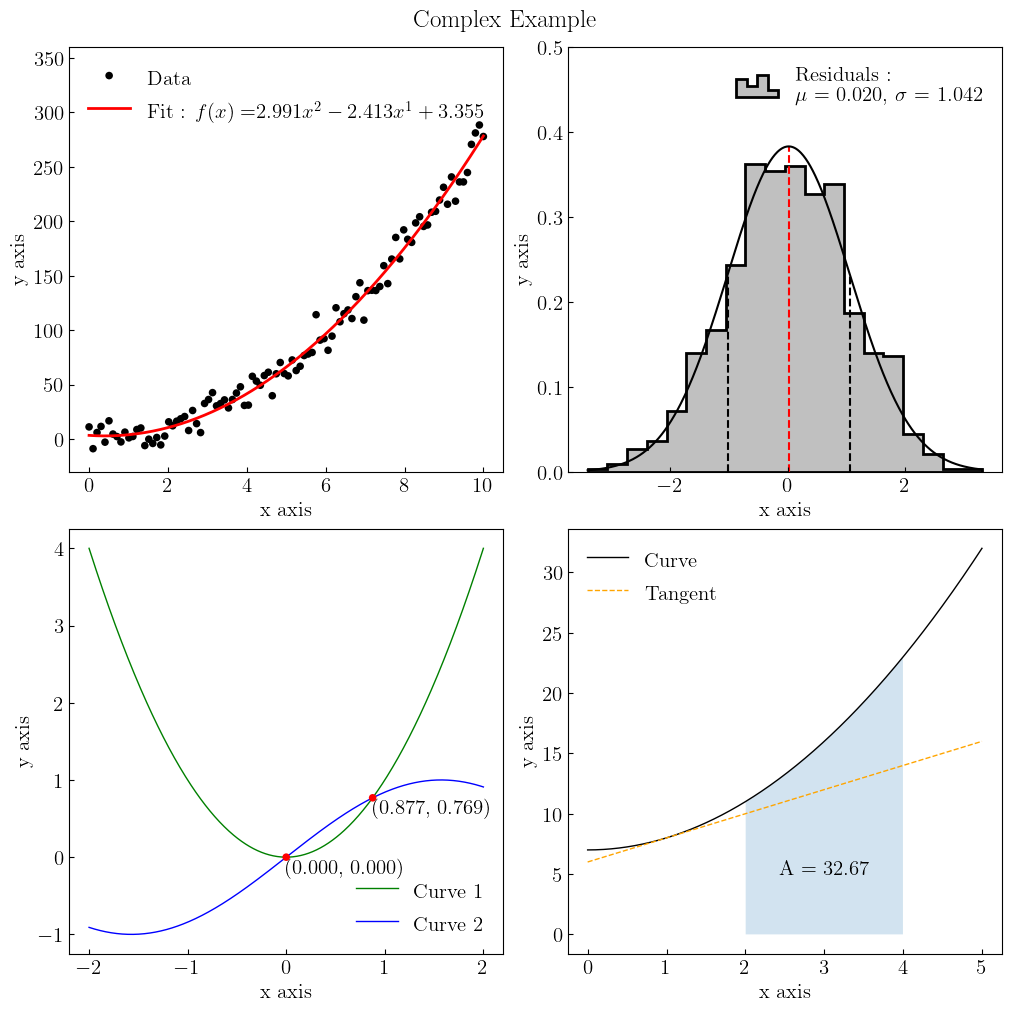
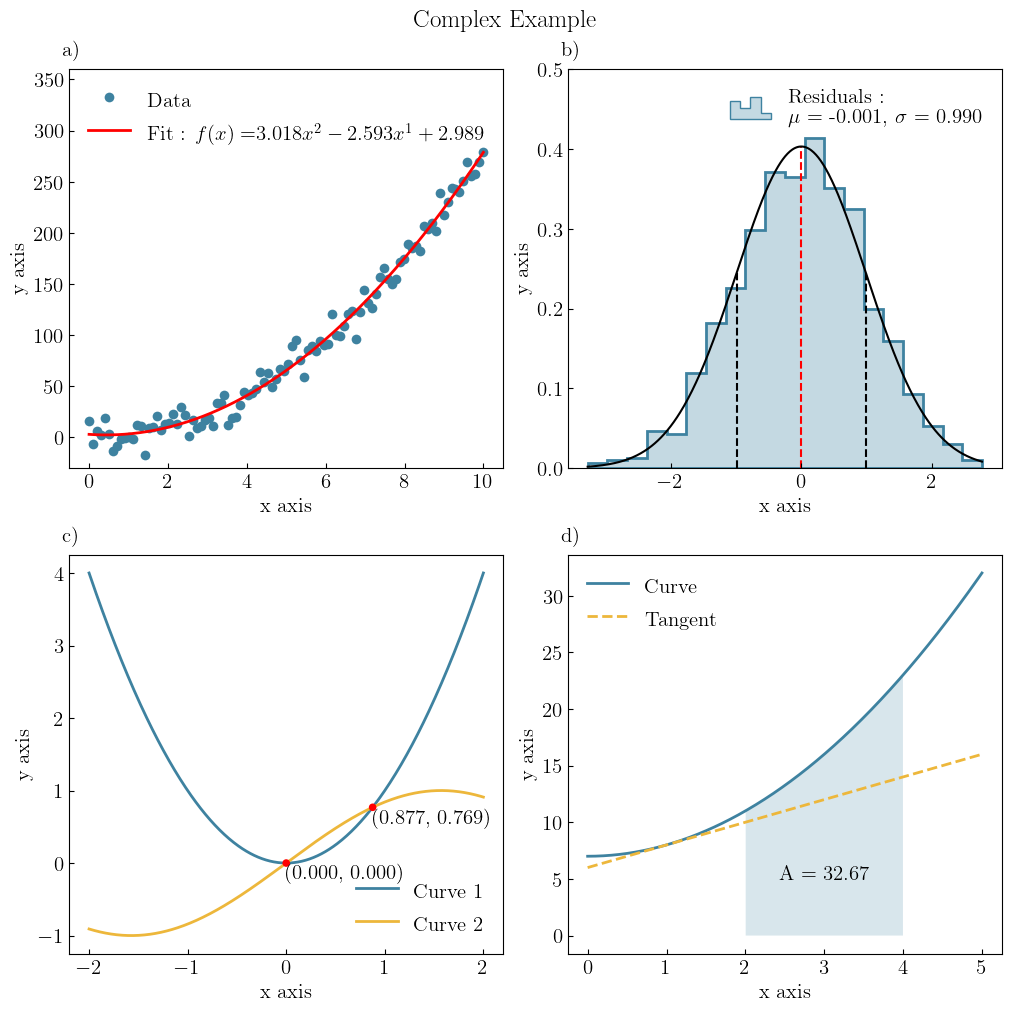
Changed figure style of documentation home page

diff --git a/docs/index.rst b/docs/index.rst
@@ -79,7 +79,7 @@ For most data science applications, GraphingLib can provide a much more concise 
     scatter = gl.Scatter(x_data, y_data, label="Data")
     fit = gl.FitFromPolynomial(scatter, degree=2, label="Fit", color="red")
 
-    fig1 = canvas.add_SubFigure((0, 0, 1, 1), y_lim=(-30, 360))
+    fig1 = canvas.add_SubFigure(0, 0, 1, 1, y_lim=(-30, 360))
     fig1.add_element(scatter, fit)
 
     # Figure 2 - Histogram of random data
@@ -87,17 +87,13 @@ For most data science applications, GraphingLib can provide a much more concise 
     data = np.random.normal(0, 1, 1000)
     hist = gl.Histogram(data, number_of_bins=20, label="Residuals", show_pdf="normal")
 
-    fig2 = canvas.add_SubFigure((0, 1, 1, 1), y_lim=(0, 0.5))
+    fig2 = canvas.add_SubFigure(0, 1, 1, 1, y_lim=(0, 0.5))
     fig2.add_element(hist)
 
     # Figure 3 - Intersection of two curves
 
-    curve1 = gl.Curve.from_function(
-        lambda x: x**2, x_min=-2, x_max=2, label="Curve 1", color="green"
-    )
-    curve2 = gl.Curve.from_function(
-        lambda x: np.sin(x), x_min=-2, x_max=2, label="Curve 2", color="blue"
-    )
+    curve1 = gl.Curve.from_function(lambda x: x**2, x_min=-2, x_max=2, label="Curve 1")
+    curve2 = gl.Curve.from_function(lambda x: np.sin(x), x_min=-2, x_max=2, label="Curve 2")
     intersection_points = curve1.intersection(curve2, colors="red")
 
     for point in intersection_points:
@@ -105,21 +101,21 @@ For most data science applications, GraphingLib can provide a much more concise 
         point.h_align = "left"
         point.v_align = "top"
 
-    fig3 = canvas.add_SubFigure((1, 0, 1, 1))
+    fig3 = canvas.add_SubFigure(1, 0, 1, 1)
     fig3.add_element(curve1, curve2, *intersection_points)
 
     # Figure 4 - Integral of a curve between two points and tangent line
 
     curve = gl.Curve.from_function(lambda x: x**2 + 7, x_min=0, x_max=5, label="Curve")
     area = curve.area_between(2, 4, fill_under=True)
-    tangent = curve.get_tangent_curve(1, label="Tangent", color="orange", line_style="--")
-    area_text = gl.Text(3, 5, "A = {:.2f}".format(area), color="k")
+    tangent = curve.get_tangent_curve(1, label="Tangent", line_style="--")
+    area_text = gl.Text(3, 5, "A = {:.2f}".format(area))
 
-    fig4 = canvas.add_SubFigure((1, 1, 1, 1))
+    fig4 = canvas.add_SubFigure(1, 1, 1, 1)
     fig4.add_element(curve, tangent, area_text)
 
-    # canvas.save_figure("complex_example.png", legend=False)
-    canvas.display(legend=False)
+    # canvas.save_figure("complex_example.png", general_legend=False)
+    canvas.display(general_legend=False)
 
 .. image:: ../images/complex_example.png
 
